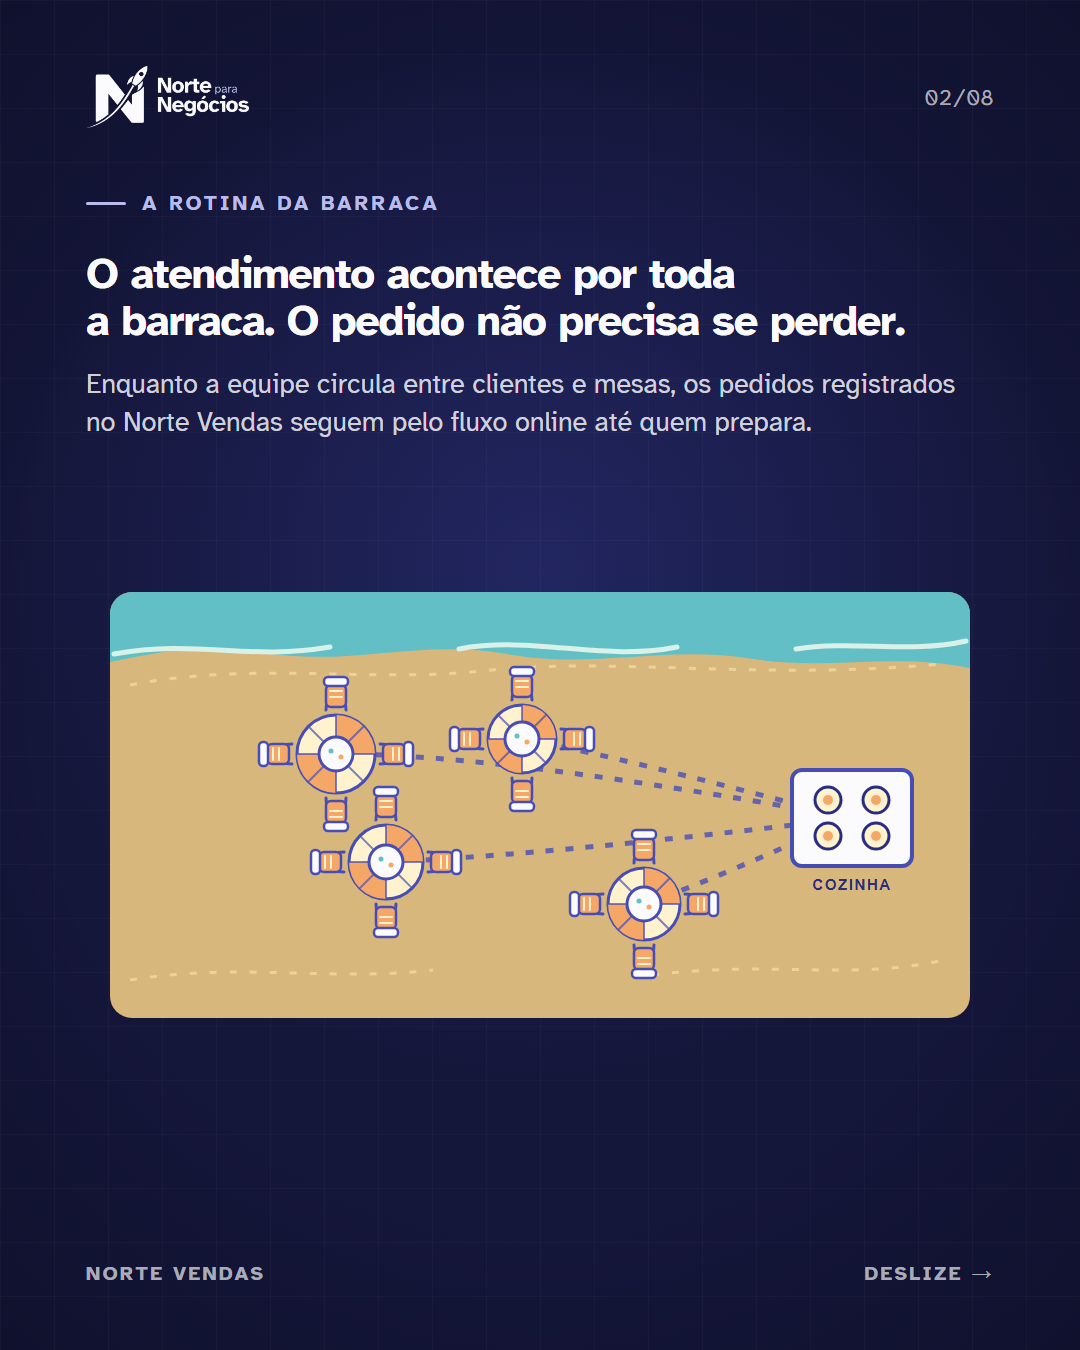
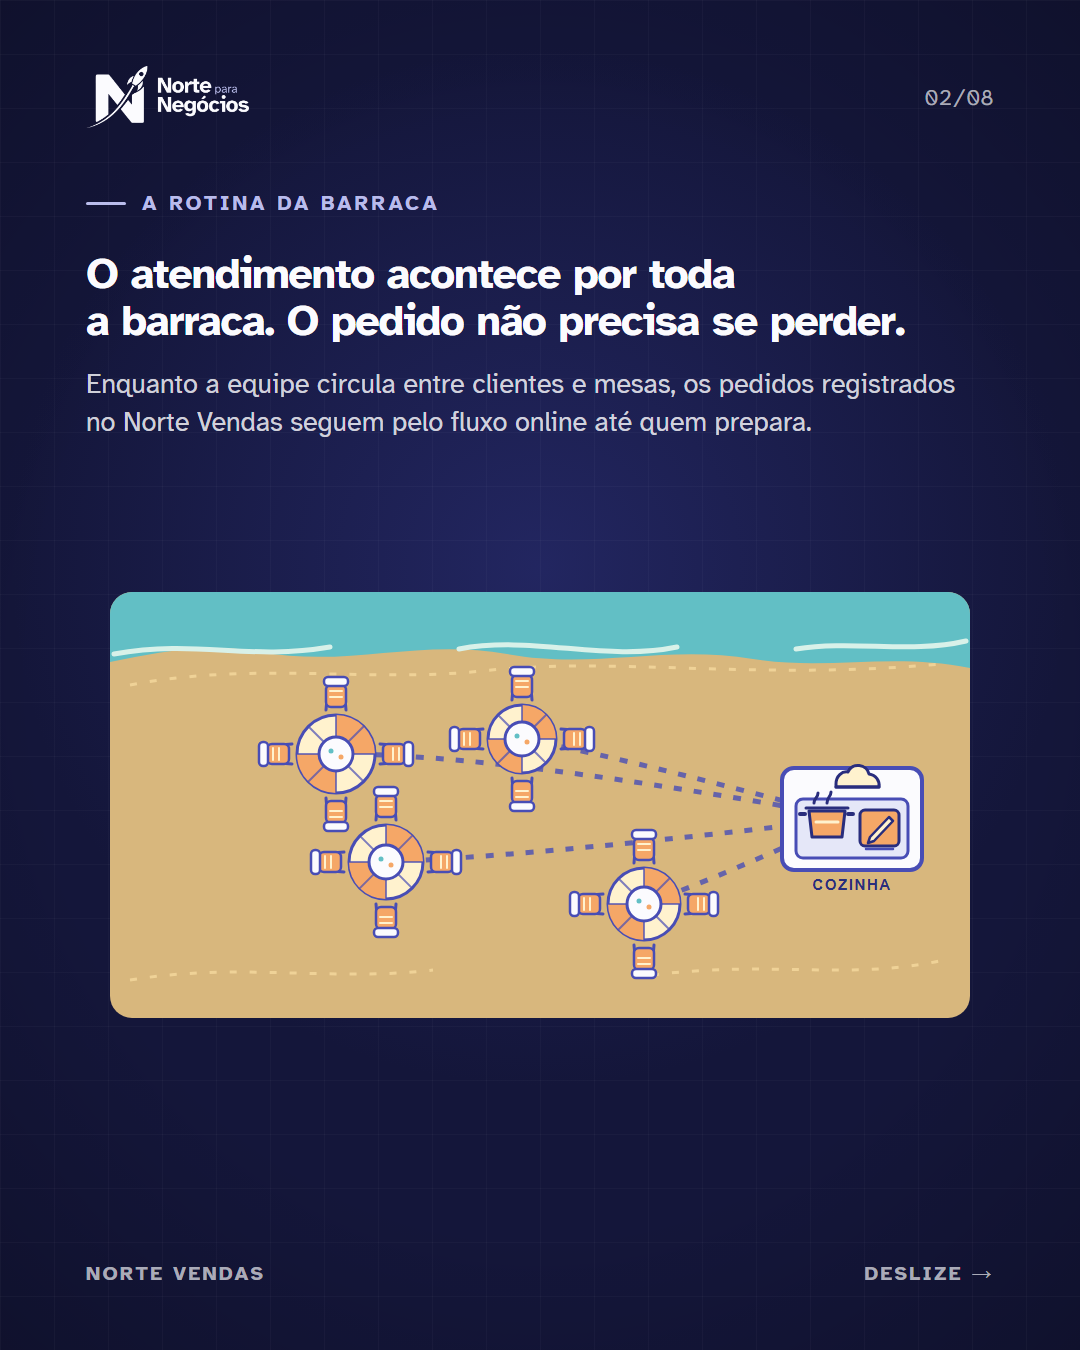
Clarify kitchen station in beach workflow slide

Changed region(s): [[0.7028, 0.56, 0.8556, 0.6533]]

diff --git a/src/templates/NorteVendasBarracaPraia.tsx b/src/templates/NorteVendasBarracaPraia.tsx
@@ -172,13 +172,22 @@ const BeachAreaMap: React.FC = () => (
       ))}
 
       <g transform="translate(766 248)" data-scene-object="kitchen-route-endpoint">
-        <rect x="-60" y="-48" width="120" height="96" rx="10" fill="#FBFBFE" stroke="#484DB5" strokeWidth="4" data-scene-object="kitchen-range" />
-        {[-24, 24].flatMap((x) => [-18, 18].map((y) => (
-          <g key={`${x}-${y}`} data-scene-object="kitchen-burner">
-            <circle cx={x} cy={y} r="13" fill="#FFF2CE" stroke="#292D7D" strokeWidth="3" />
-            <circle cx={x} cy={y} r="5" fill="#F5A767" />
-          </g>
-        )))}
+        <rect x="-70" y="-50" width="140" height="102" rx="12" fill="#FBFBFE" stroke="#484DB5" strokeWidth="4" />
+        {/* Chef hat + a steaming pot and prep board read as a kitchen work station. */}
+        <path d="M-16-34C-16-42-10-47-4-46C0-56 15-54 17-44C24-43 28-37 27-31H-16V-34Z" fill="#FFF2CE" stroke="#292D7D" strokeWidth="3" strokeLinejoin="round" />
+        <path d="M-16-31H27" stroke="#292D7D" strokeWidth="3" strokeLinecap="round" />
+        <rect x="-56" y="-19" width="112" height="59" rx="7" fill="#E5E7F8" stroke="#484DB5" strokeWidth="3" />
+        <g data-scene-object="kitchen-pot">
+          <path d="M-43-7H-7L-10 19H-40L-43-7Z" fill="#F5A767" stroke="#292D7D" strokeWidth="3" strokeLinejoin="round" />
+          <path d="M-46-10H-4M-38-15C-38-20-34-20-34-25M-25-15C-25-21-21-21-21-26" stroke="#292D7D" strokeWidth="3" strokeLinecap="round" />
+          <path d="M-47-4H-52M-4-4H1" stroke="#292D7D" strokeWidth="4" strokeLinecap="round" />
+          <path d="M-36 4H-14" stroke="#FFF2CE" strokeWidth="3" strokeLinecap="round" />
+        </g>
+        <g data-scene-object="kitchen-prep-board">
+          <rect x="8" y="-8" width="39" height="36" rx="5" fill="#F5A767" stroke="#292D7D" strokeWidth="3" />
+          <path d="M18 19L37-1L41 3L22 23L16 25L18 19Z" fill="#FFF2CE" stroke="#292D7D" strokeWidth="2.5" strokeLinejoin="round" />
+          <path d="M14 31H41" stroke="#484DB5" strokeWidth="2.5" strokeLinecap="round" />
+        </g>
         <text x="0" y="72" textAnchor="middle" fontFamily="Arial, sans-serif" fontSize="15" fontWeight="700" letterSpacing="1.6" fill="#292D7D">COZINHA</text>
       </g>
     </g>
